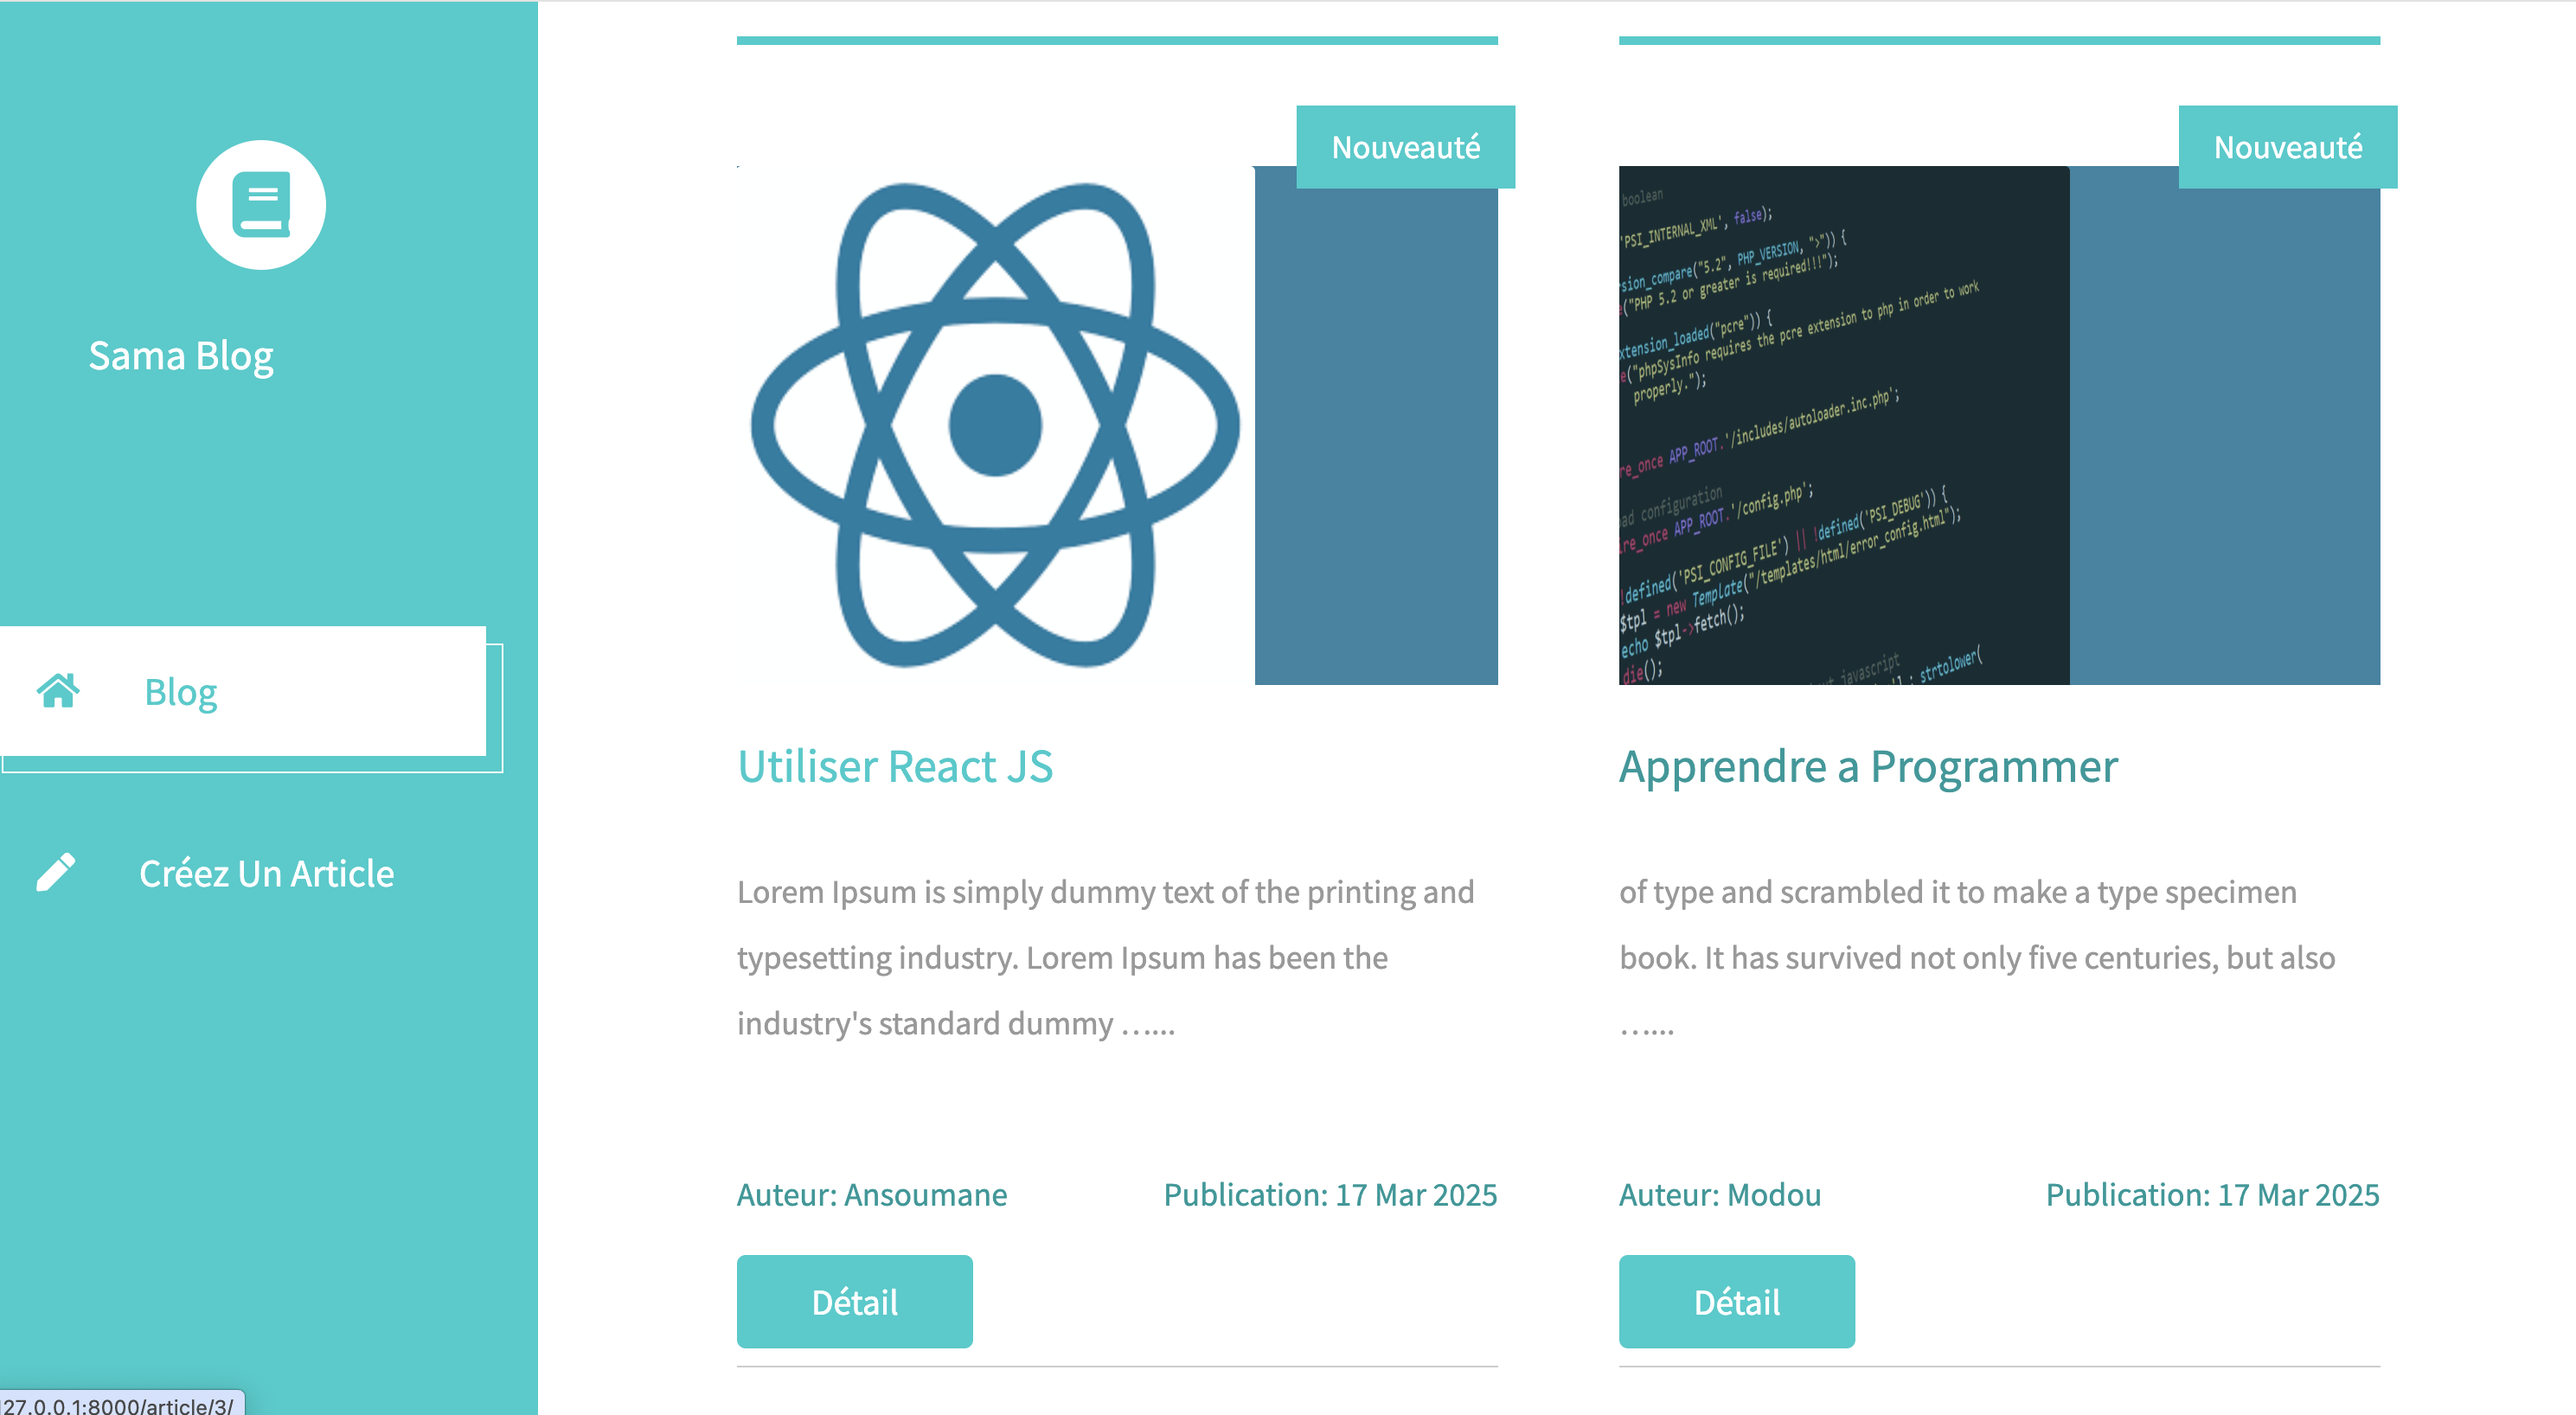
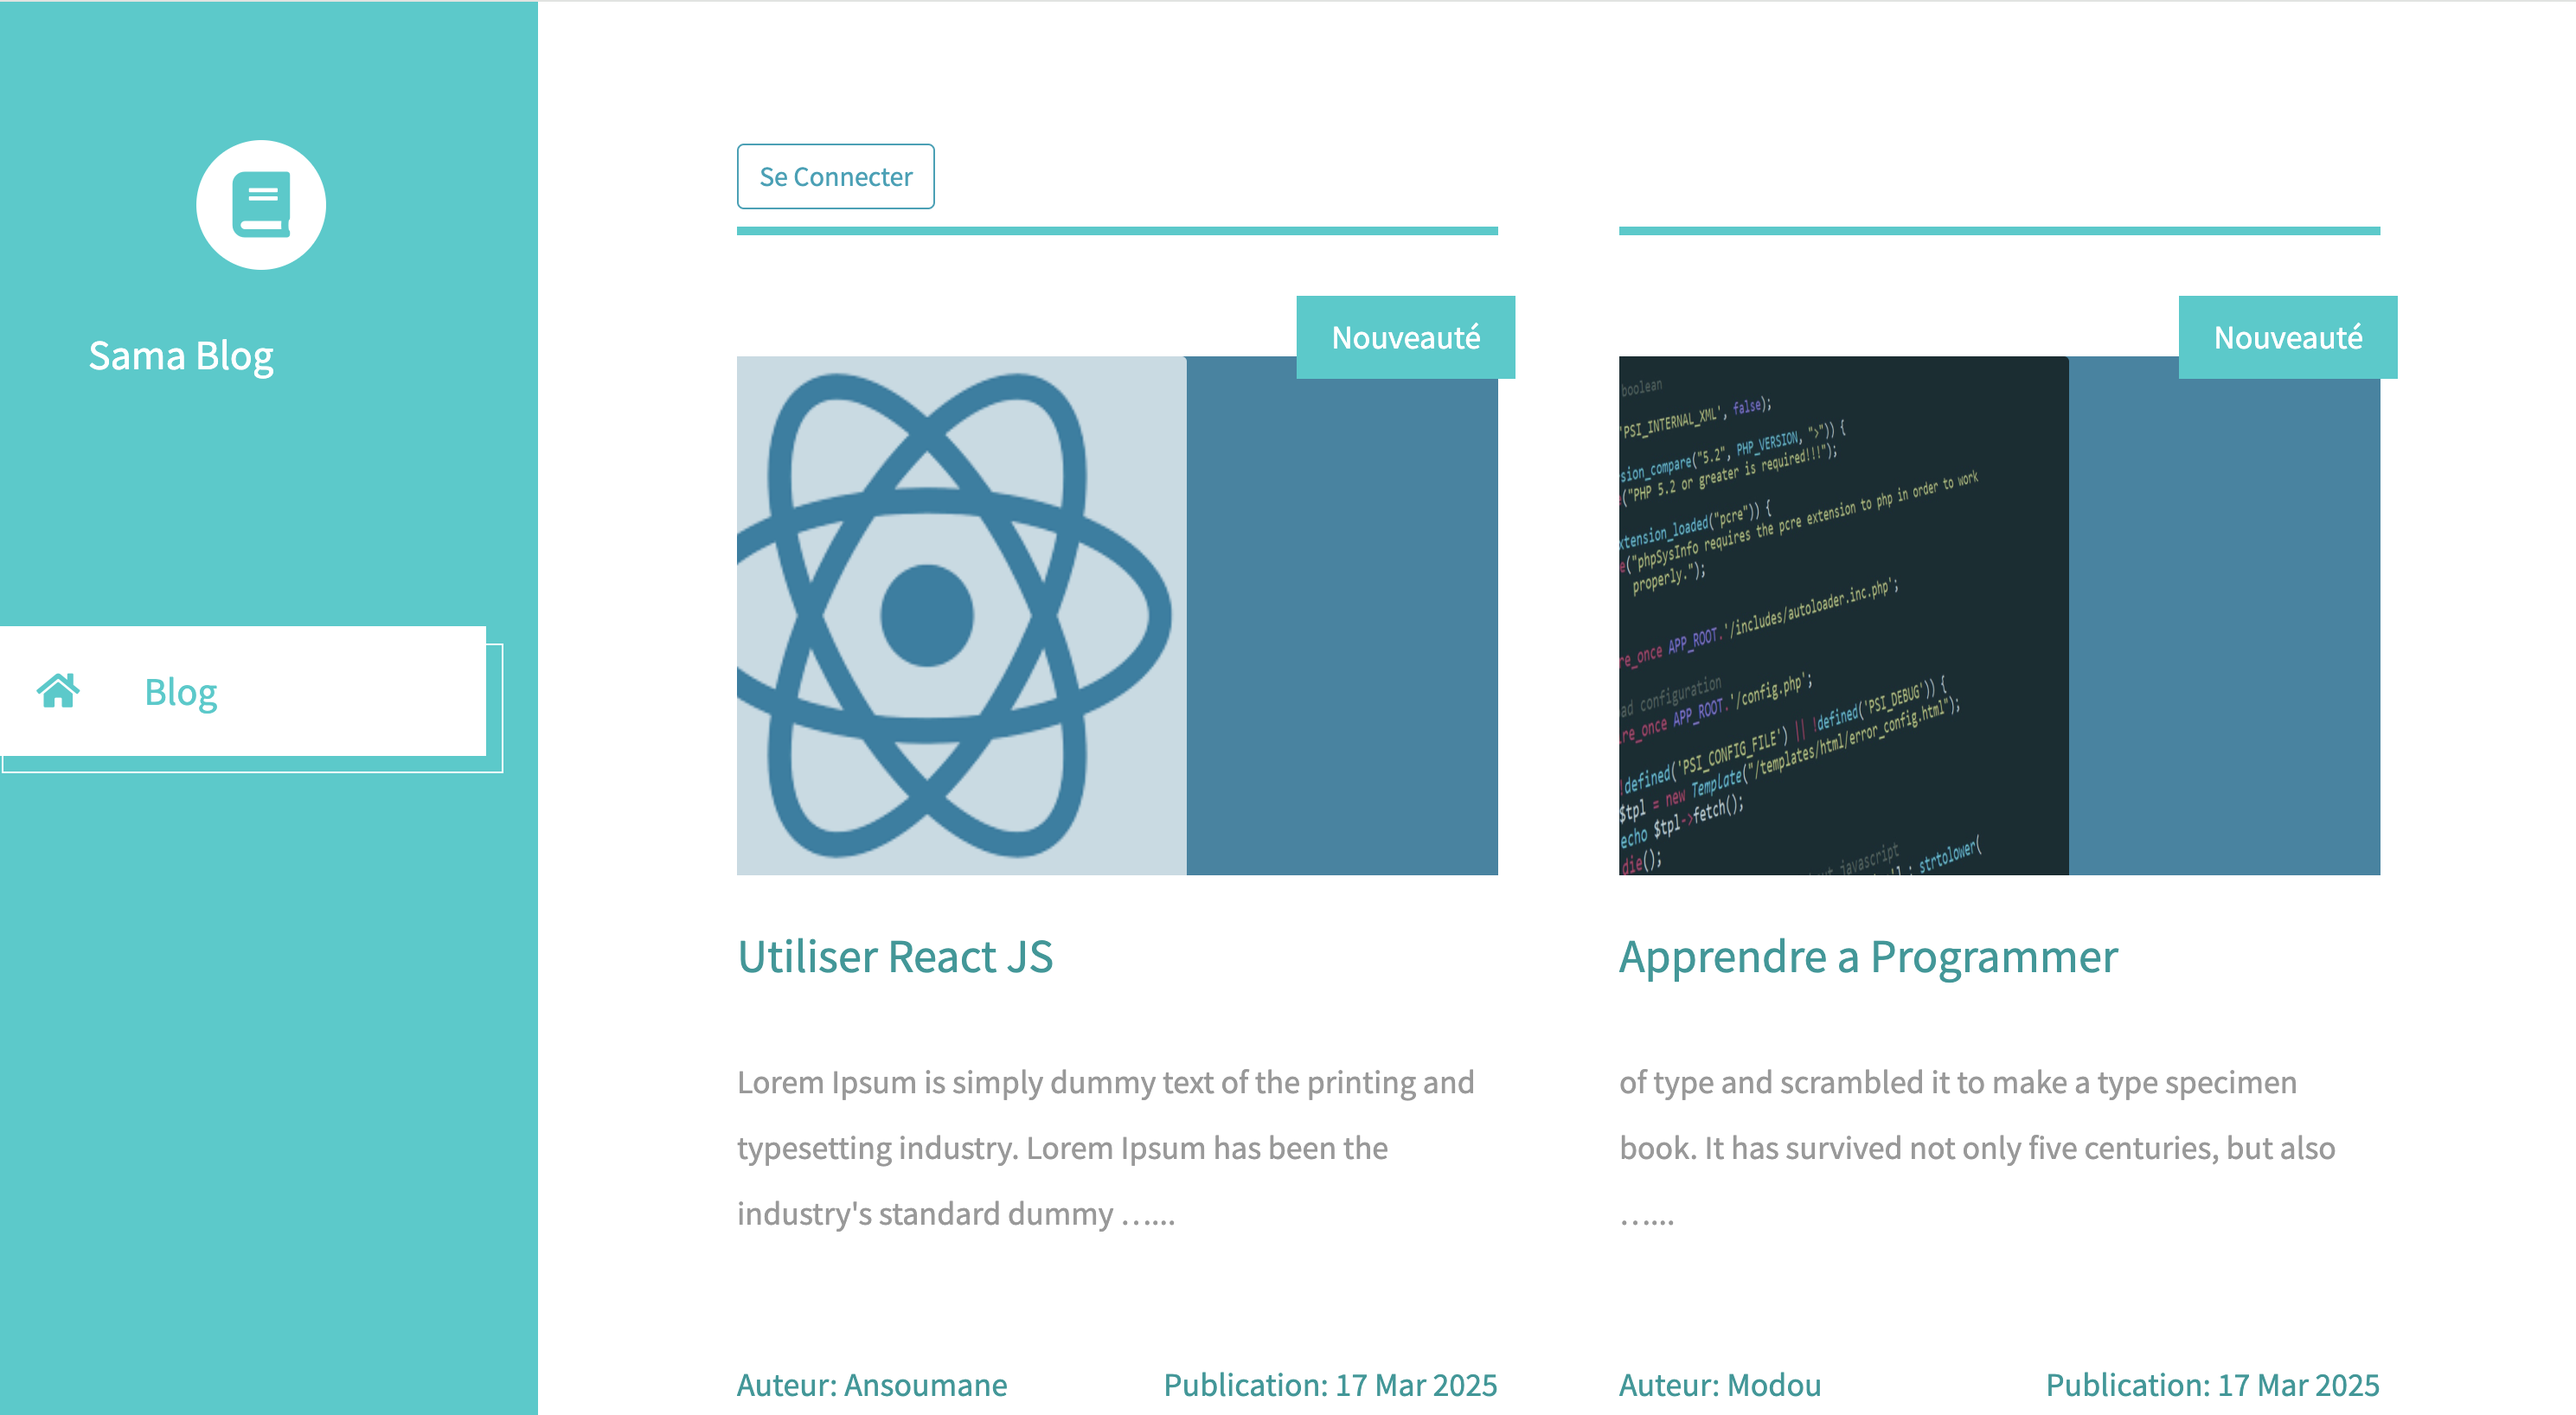
Refactoring

diff --git a/app/templates/header.html b/app/templates/header.html
@@ -16,11 +16,19 @@
                         <i class="fas fa-home"></i>
                         Blog
                     </a></li>
-                    <li class="tm-nav-item"><a href="{% url 'article_new' %}" class="tm-nav-link">
+
+                    {% comment %} <li class="tm-nav-item"><a href="{% url 'article_new' %}" class="tm-nav-link">
                         <i class="fas fa-pen"></i>
                         Créez Un Article
-                    </a></li>
-                    
+                    </a></li> {% endcomment %}
+                    {% if request.user.is_authenticated %}
+                    <li class="tm-nav-item {% if request.resolver_match.url_name == 'article_new' %}active{% endif %}">
+                        <a href="{% url 'article_new' %}" class="tm-nav-link">
+                            <i class="fas fa-pen"></i>
+                            Créez Un Article
+                        </a>
+                    </li>
+                {% endif %}
                     
                 </ul>
             </nav>

diff --git a/app/templates/details.html b/app/templates/details.html
@@ -34,8 +34,15 @@
     </div>
 
 </div>
+
+{% if request.user == article.auteur or request.user.is_superuser %}
     <div class="d-flex justify-content-end">
         <a href="{% url 'article_edit' article.pk %}" class="btn btn-warning mr-2">Modifier</a>
         <a href="{% url 'article_delete' article.pk %}" class="btn btn-danger">Supprimer</a>
     </div>
+{% endif %}
+    {% comment %} <div class="d-flex justify-content-end">
+        <a href="{% url 'article_edit' article.pk %}" class="btn btn-warning mr-2">Modifier</a>
+        <a href="{% url 'article_delete' article.pk %}" class="btn btn-danger">Supprimer</a>
+    </div> {% endcomment %}
 {% endblock %}

diff --git a/README.md b/README.md
@@ -26,6 +26,12 @@ venv\Scripts\activate  # Sur Windows
 
 ![Texte alternatif](documentation/accueil.png)
 
+🔐 Login
+![Texte alternatif](documentation/login.png)
+
+📓 Utilisateur Connecté
+![Texte alternatif](documentation/connecte.png)
+
 🧩 Creer
 ![Texte alternatif](documentation/creer.png)
 
